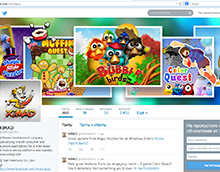
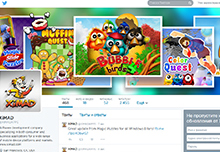
do some changes in portfolio

diff --git a/portfolio.html b/portfolio.html
@@ -94,18 +94,19 @@
 		</div>
 		
 		<div class="gridItem web">
-			<a href="#"><img src="images/photos/new/n4.jpg" alt="" /></a>
+			<span class="new">New</span>
+			<a href="index.html"><img src="images/photos/new/webtormashki.jpg" target="_blank" alt="" /></a>
 			<div>
-				<h2><a href="#">Мобильный дизайн приложения</a></h2><hr>
-				<p class="description">Интерфейсы</p>
+				<h2><a href="index.html"target="_blank">Веб-сайт портфолио веб-дизайнера</a></h2><hr>
+				<p class="description">Веб-сайты</p>
 			</div>
 		</div>
 
 		<div class="gridItem web">
 			<span class="new">New</span>
-			<a href="#" target="_blank"><img src="images/photos/new/n5.jpg" alt="1" /></a>
+			<a href="#"><img src="images/photos/new/n5.jpg" alt="1" /></a>
 			<div>
-				<h2><a href="#" target="_blank">Инстаграм дизайн постов</a></h2><hr>
+				<h2><a href="#">Инстаграм дизайн постов</a></h2><hr>
 				<p class="description">Smm</p>
 			</div>
 
@@ -135,12 +136,18 @@
 			</div>
 		</div>
 
-
+		<div class="gridItem web">
+			<a href="#"><img src="images/photos/new/n4.jpg" alt="" /></a>
+			<div>
+				<h2><a href="#">Мобильный дизайн приложения</a></h2><hr>
+				<p class="description">Интерфейсы</p>
+			</div>
+		</div>
 
 		<div class="gridItem design">
-			<a href="video.html"><img src="images/photos/1/xi2.jpg" alt="123" /></a>
+			<a href="#"><img src="images/photos/1/xi2.jpg" alt="123" /></a>
 			<div>
-				<h2><a href="video.html">Плакат для компании Xim</a></h2><hr>
+				<h2><a href="#">Плакат для компании Xim</a></h2><hr>
 				<p class="description">Инфографика</p>
 			</div>
 
@@ -173,9 +180,9 @@
 
 		<div class="gridItem animate">
 
-			<a href="video.html"><img src="images/photos/1/small_pic.jpg" alt="123" /></a>
+			<a href="video.html" target="_blank"><img src="images/photos/1/small_pic.jpg" alt="123" /></a>
 			<div>
-				<h2><a href="video.html"> Видео для портала EnergoBelarus</a></h2><hr>
+				<h2><a href="video.html" target="_blank"> Видео для портала EnergoBelarus</a></h2><hr>
 				<p class="description">Видео</p>
 			</div>
 
@@ -252,9 +259,9 @@
 		</div>
 		
 		<div class="gridItem web">
-			<a href="project2.html"><img src="images/photos/2s.jpg" alt="" /></a>
+			<a href="project2.html" target="_blank"><img src="images/photos/2s.jpg" alt="" /></a>
 			<div>
-				<h2><a href="project2.html">Личный кабинет EnergoBelarus.by</a></h2><hr>
+				<h2><a href="project2.html" target="_blank">Личный кабинет EnergoBelarus.by</a></h2><hr>
 				<p class="description">Интернет-портал</p>
 			</div>
 		</div>
@@ -293,17 +300,17 @@
 		</div>
 		
 		<div class="gridItem web">
-			<a href="project1.html"><img src="images/photos/e1.jpg" alt="" /></a>
+			<a href="#" ><img src="images/photos/e1.jpg" alt="" /></a>
 			<div>
-				<h2><a href="project1.html">Значки для Энергомаркета</a></h2><hr>
+				<h2><a href="#" >Значки для Энергомаркета</a></h2><hr>
 				<p class="description">Значки, иконки</p>
 			</div>
 		</div>
 	
 		<div class="gridItem web">
-			<a href="project3.html"><img src="images/photos/1s.jpg" alt="" /></a>
+			<a href="project3.html" target="_blank"><img src="images/photos/1s.jpg" alt="" /></a>
 			<div>
-				<h2><a href="project3.html">WiCam.by</a></h2><hr>
+				<h2><a href="project3.html" target="_blank">WiCam.by</a></h2><hr>
 				<p class="description">Онлайн-сервис видеонаблюдения </p>
 			</div>
 		</div>
@@ -328,7 +335,7 @@
 		<div class="gridItem design">
 			<a href="#"><img src="images/photos/1/w_2s.jpg" alt="" /></a>
 			<div>
-				<h2><a href="project1.html">Календарь для портала EnergoBelarus</a></h2><hr>
+				<h2><a href="#">Календарь для портала EnergoBelarus</a></h2><hr>
 				<p class="description">Posm</p>
 			</div>
 		</div>
@@ -336,7 +343,7 @@
 		<div class="gridItem design">
 			<a href="#"><img src="images/photos/1/w_3s.jpg" alt="" /></a>
 			<div>
-				<h2><a href="project3.html">Rollup для портала EnergoBelarus</a></h2><hr>
+				<h2><a href="#">Rollup для портала EnergoBelarus</a></h2><hr>
 				<p class="description">Posm</p>
 			</div>
 		</div>
@@ -344,17 +351,17 @@
 
 		<div class="gridItem web">
 			
-			<a href="project4.html"><img src="images/photos/ti.jpg" alt="" /></a>
+			<a href="project4.html" target="_blank"><img src="images/photos/ti.jpg" alt="" /></a>
 			<div>
-				<h2><a href="project4.html">tan4ik.info</a></h2><hr>
+				<h2><a href="project4.html" target="_blank">tan4ik.info</a></h2><hr>
 				<p class="description">Сайт "Жизнь глазами Танечки"" </p>
 			</div>
 		</div>
 		<div class="gridItem web">
 			
-			<a href="project5.html"><img src="images/photos/polonica1.jpg" alt="" /></a>
+			<a href="project5.html" target="_blank"><img src="images/photos/polonica1.jpg" alt="" /></a>
 			<div>
-				<h2><a href="project5.html">Polonica</a></h2><hr>
+				<h2><a href="project5.html" target="_blank">Polonica</a></h2><hr>
 				<p class="description">Портал беларуской полонистики</p>
 			</div>
 		</div>
@@ -368,9 +375,9 @@
 		</div>
 		<div class="gridItem web">
 			
-			<a href="project7.html"><img src="images/photos/tcp1.jpg" alt="" /></a>
+			<a href="project7.html" target="_blank"><img src="images/photos/tcp1.jpg" alt="" /></a>
 			<div>
-				<h2><a href="project7.html">TCP</a></h2><hr>
+				<h2><a href="project7.html" target="_blank">TCP</a></h2><hr>
 				<p class="description">Англоязычный сайт-потфолио фотографа</p>
 			</div>
 		</div>
